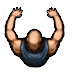
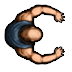
h

diff --git a/Jugador.cpp b/Jugador.cpp
@@ -7,8 +7,7 @@ using namespace sf;
 
 Jugador::Jugador() : PersonajeBase("assets/player/Jugador1.png", 2.5f) {
 	ConfigurarControles();
-	m_spr.setOrigin(33,30);
-	m_spr.setPosition(320,240);
+	m_sprite.setPosition(320,240);
 }
 
 void Jugador::Actualizar() {
@@ -29,8 +28,8 @@ bool Jugador::debeDisparar ( ) {
 }
 
 Disparo Jugador::generarDisparo (Texture &text) {
-	Vector2f p = m_spr.getPosition();
-	float ang = m_spr.getRotation()*M_PI/180;
+	Vector2f p = m_sprite.getPosition();
+	float ang = m_sprite.getRotation()*M_PI/180;
 	Vector2f d(cos(ang),sin(ang));
 	return Disparo(text, p+25.f*d,d);
 }
@@ -88,7 +87,7 @@ void Jugador::mover ( ) {
 		movimiento /= longitud;  // Normalizar
 		
 		// Mover al jugador con la velocidad
-		m_spr.move(movimiento * verVel());
+		m_sprite.move(movimiento * verVel());
 	}
 }
 
@@ -111,7 +110,7 @@ void Jugador::rotarSprite ( ) {
 	// Si el jugador presiona alguna tecla, rota el sprite
 	if (direccion != Vector2f(0.f, 0.f)) {
 		float angulo = atan2(direccion.y, direccion.x) * 180 / M_PI;
-		m_spr.setRotation(angulo);
+		m_sprite.setRotation(angulo);
 	}
 }
 

diff --git a/EscenaPartida.cpp b/EscenaPartida.cpp
@@ -9,7 +9,7 @@
 using namespace std;
 
 EscenaPartida::EscenaPartida(Juego &j) : Escena(j) {
-	m_zombie_textura.loadFromFile("assets/player/Jugador1.png");
+	m_zombie_textura.loadFromFile("assets/enemy/zombiebasic.png");
 	m_zombies.push_back(Zombie(m_zombie_textura, Vector2f(100, 100)));
 	m_zombies.push_back(Zombie(m_zombie_textura, Vector2f(200, 500)));
 	m_zombies.push_back(Zombie(m_zombie_textura, Vector2f(600, 400)));
@@ -96,7 +96,7 @@ void EscenaPartida::Actualizar () {
 }
 
 void EscenaPartida::Dibujar (RenderWindow & w) {
-	w.clear(Color(220,220,180,255));
+	w.clear(Color(0,0,0,255));
 	m_Jugador.Dibujar(w);
 	
 	for(Disparo &d : m_disparos)

diff --git a/PersonajeBase.cpp b/PersonajeBase.cpp
@@ -4,15 +4,16 @@ using namespace std;
 
 PersonajeBase::PersonajeBase (string t, float vel) : m_vel(vel) {
 	m_texture.loadFromFile(t);
-	m_spr.setTexture(m_texture);
+	m_sprite.setTexture(m_texture);
+	m_sprite.setOrigin(m_texture.getSize().x/2,m_texture.getSize().y/2);
 }
 
 void PersonajeBase::Dibujar (RenderWindow & w) {
-	w.draw(m_spr);
+	w.draw(m_sprite);
 }
 
 Vector2f PersonajeBase::verPosicion ( ) {
-	return m_spr.getPosition();
+	return m_sprite.getPosition();
 }
 
 

diff --git a/EnemigoBase.cpp b/EnemigoBase.cpp
@@ -5,6 +5,7 @@ using namespace std;
 EnemigoBase::EnemigoBase (Texture & t, Vector2f pos, float vel, int puntos) : m_velocidad(vel), m_puntos(puntos){
 	m_sprite.setTexture(t);
 	m_sprite.setPosition(pos);
+	m_sprite.setOrigin(t.getSize().x/2 ,t.getSize().y/2);
 }
 
 void EnemigoBase::Actualizar (Vector2f pos_jugador) {

diff --git a/Zombie.cpp b/Zombie.cpp
@@ -2,9 +2,7 @@
 #include <cmath>
 
 Zombie::Zombie (sf::Texture & t, sf::Vector2f pos) : EnemigoBase(t,pos,2.0f,50) {
-	//el origen se cambiaria despues para su debido sprite
-	m_sprite.setOrigin(33,30);
-	
+	m_sprite.setScale(0.5,0.5);
 }
 
 void Zombie::Actualizar (sf::Vector2f pos_jugador) {

diff --git a/Disparo.cpp b/Disparo.cpp
@@ -3,6 +3,7 @@
 
 Disparo::Disparo(Texture &text, Vector2f pos, Vector2f dir) {
 	m_sprite.setTexture(text);
+	m_sprite.setTextureRect(IntRect(256,160,16,16));
 	m_sprite.setPosition(pos);
 	m_sprite.setOrigin(8,8);
 	m_sprite.rotate(atan2(dir.y,dir.x)*180/M_PI);

diff --git a/ItemBase.cpp b/ItemBase.cpp
@@ -4,8 +4,7 @@
 ItemBase::ItemBase() {
 	m_texture.loadFromFile("assets/item/Power.png");
 	m_sprite.setTexture(m_texture);
-	m_sprite.setOrigin(8,8);
-	m_sprite.setPosition(220, 240);
+	m_sprite.setOrigin(m_texture.getSize().x/2,m_texture.getSize().y/2);
 }
 
 

diff --git a/PersonajeBase.h b/PersonajeBase.h
@@ -19,7 +19,7 @@ private:
 	float m_vel;
 protected:
 	Texture m_texture;
-	Sprite m_spr;
+	Sprite m_sprite;
 };
 
 //estaba pensando en hacer que PersonajeBase, EnemigoBase, Disparo y cualquier otra clase sobre algo en el juego,

diff --git a/EscenaMenu.cpp b/EscenaMenu.cpp
@@ -7,6 +7,7 @@
 using namespace sf;
 
 EscenaMenu::EscenaMenu(Juego &j) : Escena(j) {
+
 	m_font.loadFromFile("assets/fonts/asap.ttf");
 	for (Text &text : m_texts) {
 		text.setFont(m_font);
